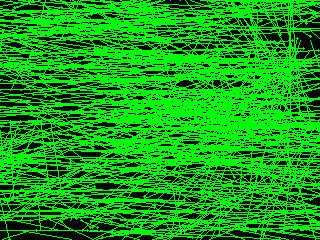
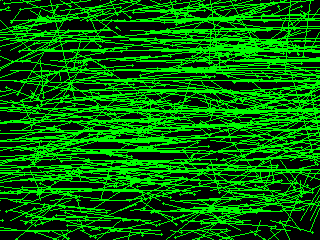
ps4 4. Working code. 100% on Gradescope. Images sux.

diff --git a/code/PS4/ps04/ps4.py b/code/PS4/ps04/ps4.py
@@ -2,9 +2,7 @@
 
 import numpy as np
 import cv2
-# from trackpipe import pipeline
-# from trackpipe.transforms import GaussianBlur
-from trackbar import display_trackbar_window, param, scale
+# from trackbar import display_trackbar_window, param, scale
 
 ##########################################################################################
 # Experimental
@@ -127,26 +125,6 @@ def optic_flow_lk(img_a, img_b, k_size, k_type, sigma=1):
             V (numpy.array): raw displacement (in pixels) along
                              Y-axis, same size and type as U.
     """
-    # pre-filtering
-    # import pdb; pdb.set_trace()
-    # img_a = cv2.medianBlur(img_a.astype(np.float32), 9)
-    # img_b = cv2.medianBlur(img_b.astype(np.float32), 9)
-    # gauss_k_size = 9
-    # gauss_sigma = 10
-    # img_a = cv2.GaussianBlur(img_a, (gauss_k_size, gauss_k_size), gauss_sigma)
-    # img_b = cv2.GaussianBlur(img_b, (gauss_k_size, gauss_k_size), gauss_sigma)
-    #
-    # It = img_b - img_a
-    # Ix = gradient_x(img_a)
-    # Iy = gradient_y(img_a)
-    #
-    # # assert k_size % 2 == 1, "Even k_size, should be odd."
-    #
-    # IxIx = np.multiply(Ix, Ix)
-    # IxIy = np.multiply(Ix, Iy)
-    # IyIy = np.multiply(Iy, Iy)
-    # IxIt = np.multiply(Ix, It)
-    # IyIt = np.multiply(Iy, It)
 
     def draw_image(input):
         input_points = input[0]
@@ -159,9 +137,19 @@ def optic_flow_lk(img_a, img_b, k_size, k_type, sigma=1):
                        gauss_k_size=1, gauss_sigma_x=1, gauss_sigma_y=1,
                        quiver_scale=1, quiver_stride=10):
 
-        It = img_b - img_a
-        Ix = gradient_x(img_a)
-        Iy = gradient_y(img_a)
+        # img_a_blur = cv2.GaussianBlur(img_a,
+        #                          (gauss_k_size, gauss_k_size),
+        #                          sigmaX=gauss_sigma_x,
+        #                          sigmaY=gauss_sigma_y)
+        # img_b_blur = cv2.GaussianBlur(img_b,
+        #                               (gauss_k_size, gauss_k_size),
+        #                               sigmaX=gauss_sigma_x,
+        #                               sigmaY=gauss_sigma_y)
+        img_a_blur = img_a
+        img_b_blur = img_b
+        It = img_b_blur - img_a_blur
+        Ix = gradient_x(img_a_blur)
+        Iy = gradient_y(img_a_blur)
 
         if use_img_smoothing:
             It = cv2.GaussianBlur(It,
@@ -208,8 +196,8 @@ def optic_flow_lk(img_a, img_b, k_size, k_type, sigma=1):
         V_tmp[lt_idx] = 0
         V = V_tmp
 
-        # U = cv2.GaussianBlur(U, (3, 3), 3)
-        # V = cv2.GaussianBlur(V, (3, 3), 3)
+        # U = cv2.GaussianBlur(U, (kSize, kSize), sigmaGauss)
+        # V = cv2.GaussianBlur(V, (kSize, kSize), sigmaGauss)
 
         return ((U, V), quiver_scale, quiver_stride)
 
@@ -228,8 +216,8 @@ def optic_flow_lk(img_a, img_b, k_size, k_type, sigma=1):
     # )
 
     # print(result)
-    U, V = compute_values(k_size, sigma, gauss_k_size=9,
-                   gauss_sigma_x=10, gauss_sigma_y=10)[0]
+    U, V = compute_values(k_size, sigma, gauss_k_size=15,
+                   gauss_sigma_x=24, gauss_sigma_y=1)[0]
 
     return U, V
 
@@ -399,7 +387,6 @@ def laplacian_pyramid(g_pyr):
     # print(l_pyr)
     # print('*'*80)
     for i in l_pyr[:-1]:
-        # import pdb; pdb.set_trace()
         # print(i)
         expanded = expand_image(g_pyr[i + 1])
         double = tuple(x*2 for x in g_pyr[i+1].shape)
@@ -437,11 +424,11 @@ def warp(image, U, V, interpolation, border_mode):
     """
     h, w = image.shape[:2]
     row_indices, col_indices = np.indices((h, w), dtype=np.float32)
-    # import pdb; pdb.set_trace()
+
     map_x = col_indices + U
     map_y = row_indices + V
 
-    # import pdb; pdb.set_trace()
+
     warped_image = cv2.remap(
         image.astype(np.float32),
         map_x.astype(np.float32),
@@ -449,10 +436,6 @@ def warp(image, U, V, interpolation, border_mode):
         interpolation,
         borderMode=border_mode
     )
-    # import pdb; pdb.set_trace()
-    # cv2.imshow('remap_src_image', image)
-    # cv2.imshow('remap_dst_image', warped_image)
-    # cv2.waitKey(0)
 
     return warped_image
 
@@ -509,15 +492,15 @@ def hierarchical_lk(img_a, img_b, levels, k_size, k_type, sigma, interpolation,
 
             level -= 1
             #2 Use expanded U, V to warp next level of img_a into img_b. (old_velocity)
-            warped_img = warp(img_a_pyr[level], u_exp, v_exp, interpolation, border_mode)
+            warped_img_b_to_img_a = warp(img_b_pyr[level], u_exp, v_exp, interpolation, border_mode)
 
             #3 Run warped_image and same level from img_2 into Lk
-            u_corr, v_corr = optic_flow_lk(warped_img, img_b_pyr[level], k_size,
+            u_corr, v_corr = optic_flow_lk(img_a_pyr[level], warped_img_b_to_img_a, k_size,
                                            k_type, sigma)
 
             #4 Add correction terms to old_velocity
-            u = u_exp - u_corr
-            v = v_exp - v_corr
+            u = u_exp + u_corr
+            v = v_exp + v_corr
 
             # goto #1
 

diff --git a/code/PS4/ps04/experiment.py b/code/PS4/ps04/experiment.py
@@ -354,13 +354,13 @@ def part_6():
 
 
 if __name__ == '__main__':
-    part_1a()
-    part_1b()
-    part_2()
-    part_3a_1()
-    part_3a_2()
-    # part_4a()
-    # part_4b()
+    # part_1a()
+    # part_1b()
+    # part_2()
+    # part_3a_1()
+    # part_3a_2()
+    part_4a()
+    part_4b()
     # part_5a()
     # part_5b()
     # part_6()
